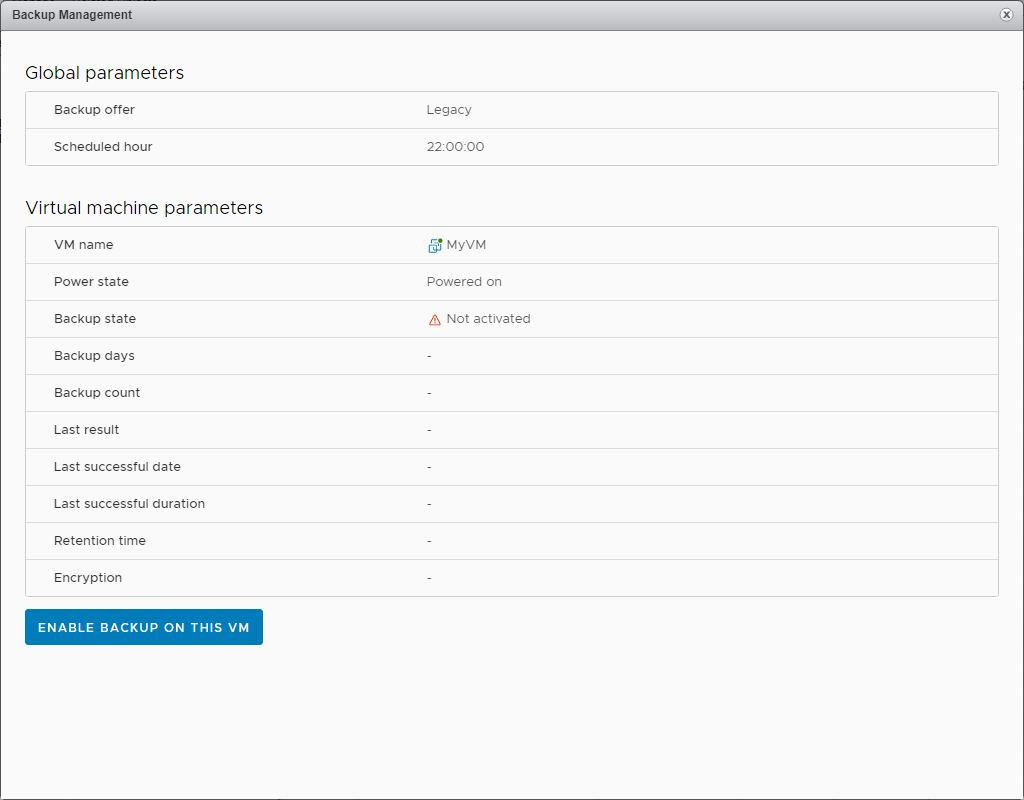
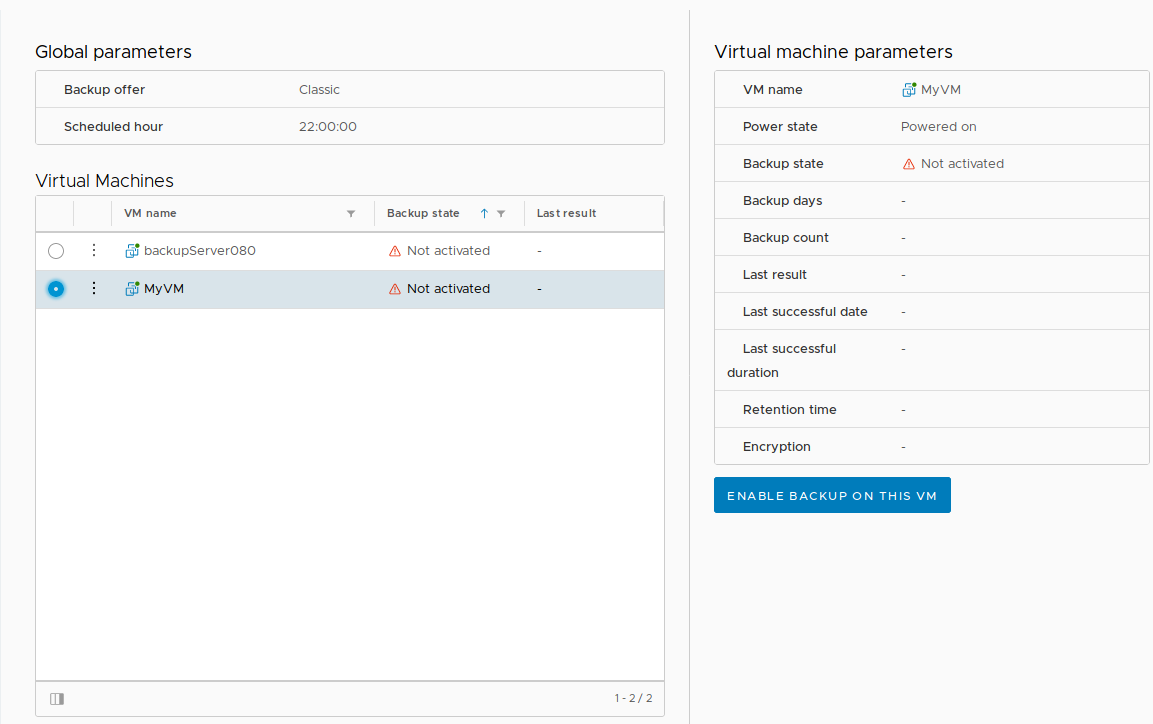
FR update Veeam user guides Basic update

diff --git a/pages/cloud/private-cloud/veeam_backup_as_a_service/guide.fr-fr.md b/pages/cloud/private-cloud/veeam_backup_as_a_service/guide.fr-fr.md
@@ -7,19 +7,19 @@ section: Services et options OVH
 order: 06
 ---
 
-**Dernière mise à jour le 22/08/2018**
+**Dernière mise à jour le 15/04/2020**
 
 ## Objectif
 
 Veeam est un éditeur de logiciel spécialisé dans les solutions de sauvegarde et de plan de reprise d'activité (PRA) dans des environnements virtualisés. L'offre Veeam Backup Managed s'appuie sur la brique logicielle Veeam Availability Suite pour vous fournir une solution de backup à la demande.
 
-Les sauvegardes sont réalisées à l'aide d'une machine virtuelle (VM) située à l’intérieur même de votre infrastructure [Private Cloud](https://www.ovh.com/fr/private-cloud/){.external}. Les données sauvegardées sont, quant à elles, externalisées vers un espace de stockage indépendant, chez OVH. Les sauvegardes s'effectuent la nuit, avec une durée de rétention de 14 à 20 jours.
+Les sauvegardes sont réalisées à l'aide d'une machine virtuelle (VM) située à l’intérieur même de votre infrastructure [Hosted Private cloud](https://www.ovhcloud.com/fr/enterprise/products/hosted-private-cloud/){.external}. Les données sauvegardées sont, quant à elles, externalisées vers un espace de stockage indépendant, chez OVH. Les sauvegardes s'effectuent la nuit, avec une durée de rétention en fonction du niveau d'offre choisi.
 
 **Ce guide vous explique comment déployer et utiliser l'option Veeam Backup Managed en quelques minutes.**
 
 ## Prérequis
 
-* Posséder une offre [Private Cloud](https://www.ovh.com/fr/private-cloud/){.external}.
+* Posséder une offre [Hosted Private cloud](https://www.ovhcloud.com/fr/enterprise/products/hosted-private-cloud/){.external}.
 * [Donner le droit « Ajout de ressources »](https://docs.ovh.com/fr/private-cloud/changer-les-droits-d-un-utilisateur/){.external} pour le datacenter concerné à l'utilisateur depuis l'[espace client OVH](https://www.ovh.com/auth/?action=gotomanager){.external}.
 * Être connecté au client vSphere.
 * Avoir activé la [haute disponibilité (HA)](https://docs.ovh.com/fr/private-cloud/vmware-ha-high-availability){.external}.
@@ -31,13 +31,23 @@ Les sauvegardes sont réalisées à l'aide d'une machine virtuelle (VM) située 
 
 ### Activer le service
 
-La première étape consiste à activer le service depuis l'[espace client OVH](https://www.ovh.com/auth/?action=gotomanager){.external}. Pour cela, rendez-vous dans la partie `Private Cloud`{.action} de l'onglet `Dédié`{.action}. Cliquez sur l'infrastructure vSphere concernée, puis sur le datacenter souhaité. Choisissez l'onglet `Backup`{.action} et validez l'activation en cliquant sur `Activer le backup`{.action}.
+La première étape consiste à activer le service depuis l'[espace client OVH](https://www.ovh.com/auth/?action=gotomanager){.external}. Pour cela, rendez-vous dans la partie `Private Cloud`{.action} de l'onglet `Server`{.action}. Cliquez sur l'infrastructure vSphere concernée, puis sur le datacenter souhaité. Choisissez l'onglet `Backup`{.action}.
 
-![Activer le backup](images/backuppcc_01.png){.thumbnail}
+![Activer le backup](images/backuppcc_01_fr.png){.thumbnail}
 
-Une fois l'option installée, un e-mail de confirmation vous est envoyé et un nouveau message apparaît dans l'espace client : **Etat: Le backup est activé**. Le service est dès lors utilisable directement depuis vSphere.
+Choisir le niveau de l'offre de sauvegarde puis continuer en cliquant sur `Choisir l'offre`{.action}.
 
-![Service activé](images/backuppcc_02.png){.thumbnail}
+Validez les contrats en cliquant sur `Activer le backup`{.action}.
+
+Une notification vous confirme la demande d'activation :
+
+![Activer le backup](images/backuppcc_02_fr.png){.thumbnail}
+
+Une fois l'option installée, un e-mail de confirmation vous est envoyé et dans l'espace client : **Sauvegarde activée**, avec le rappel du niveau de l'offre choisi.
+
+![Activer le backup](images/backuppcc_03_fr.png){.thumbnail}
+
+Le service est dès lors utilisable directement depuis vSphere.
 
 Vous verrez apparaître sur votre infrastructure vSphere une machine virtuelle correspondant au serveur de sauvegarde :
 
@@ -48,11 +58,11 @@ Vous verrez apparaître sur votre infrastructure vSphere une machine virtuelle c
 
 Maintenant que le service est en place, il suffit de réaliser les demandes de sauvegarde pour chaque machine virtuelle identifiée comme critique depuis le vSphere Web Client.
 
-Faites un clic droit sur une machine virtuelle, puis choisissez `Backup Management`{.action}.
+Sélectionnez le datacenter Vmware, puis l'onglet `Configure`{.action} , puis choisissez `Backup Management`{.action} dans la section OVHCloud du menu.
 
 ![Backup Management](images/backupvm_01.png){.thumbnail}
 
-Une fenêtre s'ouvre pour créer le travail de sauvegarde. Cliquez alors sur `Enable backup on this VM`{.action} pour lancer la demande d'activation.
+Dans la liste sélectionner la VM pour laquelle vous souhaitez activer la sauvegarde. Sur le panneau à droite, cliquez alors sur `Enable backup on this VM`{.action} pour lancer la demande d'activation.
 
 ![Activation de la sauvegarde](images/backupvm_02.png){.thumbnail}
 
@@ -60,17 +70,7 @@ Une fenêtre de confirmation apparaît. Cliquez simplement sur `OK`{.action}.
 
 ![Confirmation de la sauvegarde](images/backupvm_03.png){.thumbnail}
 
-Veeam est informé de cette nouvelle demande et crée le travail de sauvegarde de la machine virtuelle. Chaque nuit, à partir de 22 heures, une sauvegarde sera programmée selon le schéma suivant :
-
-1.  Le 1er jour, un backup complet est effectué.
-2.  Les 6 jours suivants, des sauvegardes incrémentales sont réalisées.
-3.  Le 8e jour, un nouveau backup complet est effectué.
-4.  Les 6 jours suivants, des sauvegardes incrémentales sont réalisées.
-5.  Le 15e jour, un nouveau backup complet est effectué.
-6.  Les 6 jours suivants, des sauvegardes incrémentales sont réalisées.
-7.  Le 21e jour, un nouveau backup complet est effectué ; les sauvegardes des étapes 1 et 2 sont supprimées (J-20 à J-13).
-
-Ce fonctionnement garantit la disponibilité d'un minimum de 14 backups à tout instant.
+Veeam est informé de cette nouvelle demande et crée le travail de sauvegarde de la machine virtuelle. Chaque nuit, à partir de 22 heures (par défaut), un travail de sauvegarde sera programmée selon le schéma de sauvegarde définit par l'offre.
 
 Chaque jour, un e-mail contenant les statuts de l'ensemble des travaux effectués est envoyé à l'adresse du compte OVH.
 
@@ -81,54 +81,64 @@ Chaque jour, un e-mail contenant les statuts de l'ensemble des travaux effectué
 
 ### Restaurer une sauvegarde
 
-Faites un clic droit sur la machine virtuelle à restaurer. Sélectionnez `OVH Private Cloud`{.action}, puis `Restore Backup`{.action}.
+Sélectionnez le datacenter Vmware, puis l'onglet `Configure`{.action} , puis choisissez `Backup Management`{.action} dans la section OVHCloud du menu.
+
+Dans la liste sélectionner la VM pour laquelle vous souhaitez restaurer une sauvegarde (celle-ci doit avec un **backup state** à **Enabled**).
 
 ![Restauration du backup](images/restorebackup_01.png){.thumbnail}
 
-Une fenêtre s'ouvre pour créer le travail de restauration. Vérifiez bien le nom de la machine, sélectionnez la date de sauvegarde à restaurer et choisissez le datastore (espace de stockage utilisé comme cible de restauration). Cliquez sur `Restore Backup`{.action} pour lancer la restauration.
+Sur le panneau à droite, cliquez alors sur `Restore Backup`{.action} pour lancer la demande de restauration.
 
-![Initialisation de la restauration](images/restorebackup_02.png){.thumbnail}
+![Restauration du backup](images/restorebackup_02.png){.thumbnail}
+
+Sur la nouvelle fenêtre pour créer le travail de restauration. Vérifiez bien le nom de la machine, sélectionnez la date de sauvegarde à restaurer et choisissez le datastore (espace de stockage utilisé comme cible de restauration). Cliquez sur `Restore Backup`{.action} pour lancer la restauration.
+
+![Initialisation de la restauration](images/restorebackup_03.png){.thumbnail}
 
 Une fenêtre confirme alors que le serveur Veeam est informé de cette nouvelle demande et que la création du travail de restauration de la machine virtuelle a été effectuée.
 
-![Validation de la restauration](images/restorebackup_03.png){.thumbnail}
+![Validation de la restauration](images/restorebackup_04.png){.thumbnail}
 
 La machine est restaurée à côté de la machine source.
 
-![La machine source est restaurée](images/restorebackup_04.png){.thumbnail}
+![La machine source est restaurée](images/restorebackup_05.png){.thumbnail}
 
 > [!warning]
 >
 > Attention, la machine restaurée est connectée au réseau. Si vous démarrez celle-ci sans avoir désactivé la machine source, il risque d'y avoir un conflit d'adresse IP.
 >
 
-![Conflit d'IP](images/restorebackup_05.png){.thumbnail}
+![Conflit d'IP](images/restorebackup_06.png){.thumbnail}
 
 Pour effectuer ces actions, vous pouvez sélectionner le datacenter dans votre inventaire, cliquer sur l'onglet `Configure`{.action}, puis choisir `OVH Backup Management`{.action}. Dans cette page, vous avez accès à la liste de vos travaux de sauvegarde, avec le nombre de backups et le dernier statut du travail.
 
 ### Désactiver la sauvegarde d'une machine virtuelle
 
-Faites un clic droit sur la machine contenant la sauvegarde à désactiver. Sélectionnez `OVH Private Cloud`{.action}, puis `Backup Management`{.action}.
+Sélectionnez le datacenter Vmware, puis l'onglet `Configure`{.action} , puis choisissez `Backup Management`{.action} dans la section OVHCloud du menu.
 
-![Désactivation de la machine](images/disablebackup_01.png){.thumbnail}
+Dans la liste sélectionner la VM pour laquelle vous souhaitez désactiver la sauvegarde.
 
-Dans la fenêtre qui s'ouvre, il suffit de cliquer sur `Disable Backup on this VM`{.action} pour désactiver la sauvegarde.
+![Désactivation de la machine](images/restorebackup_01.png){.thumbnail}
 
-![Désactivation de la sauvegarde](images/disablebackup_02.png){.thumbnail}
+Sur le panneau à droite, cliquez alors sur `Disable Backup on this VM`{.action} pour désactiver la sauvegarde.
+
+![Désactivation de la sauvegarde](images/restorebackup_02.png){.thumbnail}
 
 Confirmez ensuite la désactivation en cliquant sur `OK`{.action}.
 
 ![Confirmation de désactivation](images/disablebackup_03.png){.thumbnail}
 
-Pour effectuer ces actions, vous pouvez également sélectionner le datacenter dans votre inventaire, cliquer sur l'onglet `Configure`{.action}, puis choisir `OVH Backup Management`{.action}. Dans cette page, vous avez accès à la liste de vos travaux de sauvegarde, avec le nombre de backups et le dernier statut du travail.
-
-![Onglet backup management](images/backupManagementTab.png){.thumbnail}
+> [!warning]
+>
+> Il est possible de réactiver la sauvegarde à tout moment à partir du moment où la machine virtuelle est présente dans l'infrastructure.
+> 
+> A noter, que les sauvegardes éfféctuer reste disponible pour etre restaurer juqu'à l'expiration du délai de retention.
+>
 
 > [!primary]
 >
-> Dans cette même interface, vous pourrez désactiver le job de sauvegarde d'une VM supprimée.
->
-> Il est également possible de désactiver le job de sauvegarde temporairement et de le réactiver par la suite.
+> Suivre les mêmes instructions pour désactiver la sauvegarde d'une VM supprimée.
+> Il est également possible de désactiver la sauvegarde temporairement et de le réactiver par la suite.
 >
 
 ## Aller plus loin
